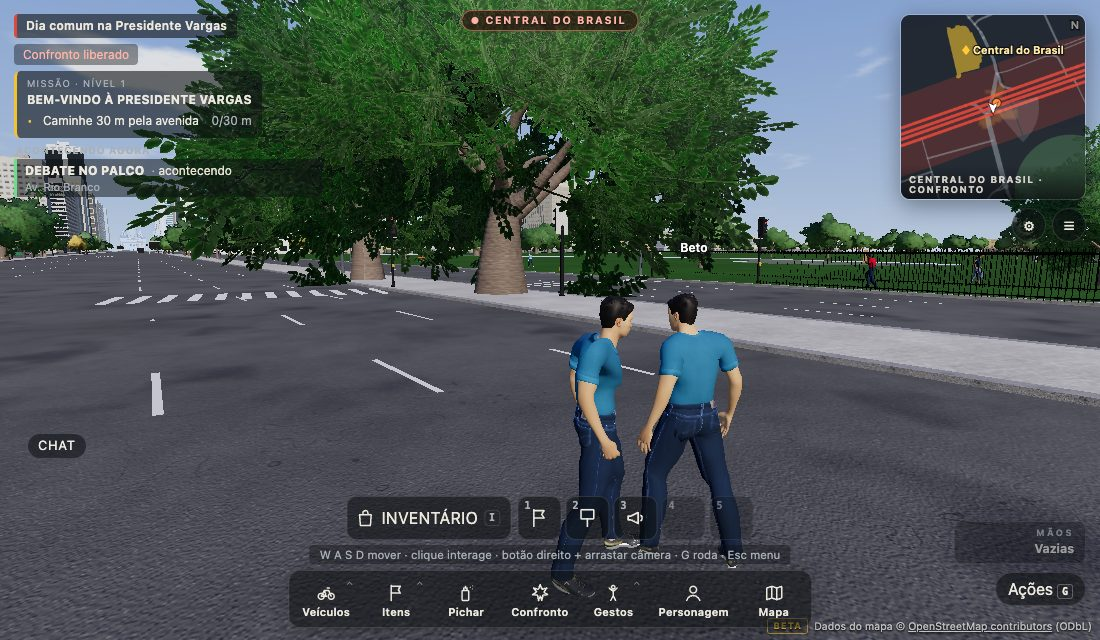
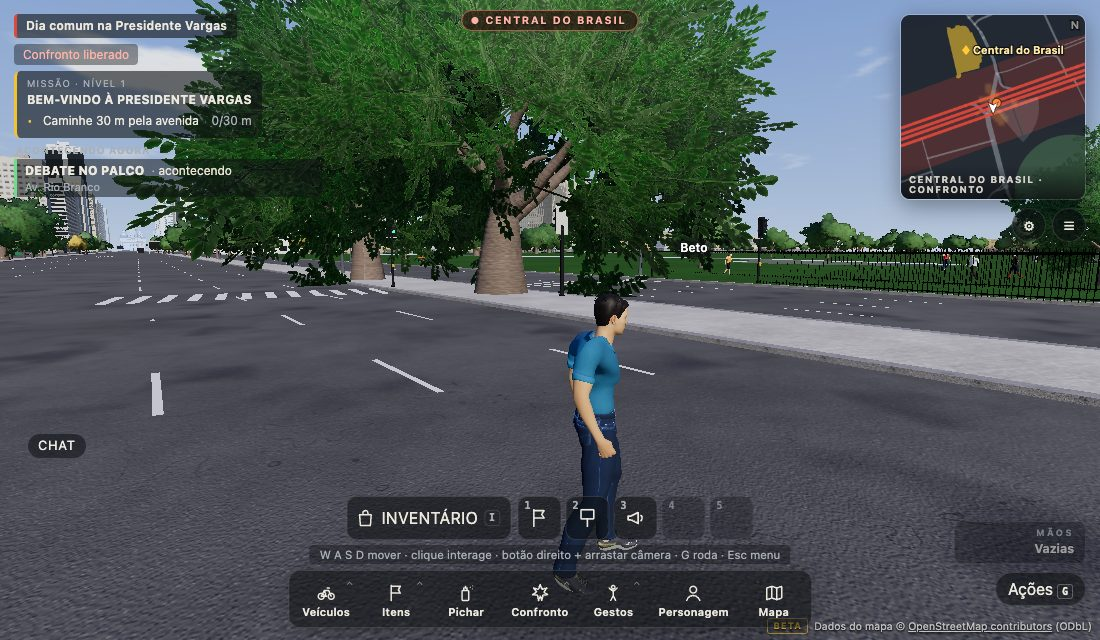
rodada 12 (A): docs/CROWD_COLLISION.md (algoritmo, raio, consulta, multidão, custo 50/250/500 no servidor e no cliente, combate, API para os autônomos) e QA de colisão final (13/13, 0 correções de corpo com clientes reais)

diff --git a/docs/CROWD_COLLISION.md b/docs/CROWD_COLLISION.md
@@ -1,0 +1,152 @@
+# Colisão entre corpos (rodada 12)
+
+Bug crítico até a rodada 11: um avatar atravessava o outro. Desde a rodada 12 **ninguém atravessa ninguém** — jogador
+humano, personagem autônomo (agente C) ou NPC de ambiente — sem rigid body por pessoa e sem custo perceptível.
+
+## Corpo
+
+| contrato (`src/physics/bodies.ts` `BODY`) | valor | papel |
+|---|---|---|
+| `radius` | 0,32 m | corpo = círculo no plano horizontal; contato = 2 × 0,32 = **0,64 m** |
+| `personalSpace` | 0,9 m | desvio local suavizado (`steerAround`) de quem anda sozinho (autônomos) |
+| `maxPushPerStep` | 0,12 m | resolução progressiva: empurrão máximo por corpo por passada (sem explosão) |
+| `serverTolerance` | 0,18 m | penetração que o servidor tolera antes de corrigir um humano (latência) |
+| `queryRadius` | 2 m | TETO da consulta de vizinhos (na prática: contato + passo + folga ≈ 0,8–1,2 m) |
+
+`BodyRef { id, x, z, r, fixed?, mass?, soft? }` — `fixed` nunca é empurrado; `mass` reparte o empurrão entre dois
+móveis; `soft` = penetração que QUEM SE MOVE pode fazer nesse corpo (NPC 0,16 m, autônomo visto do cliente 0,12 m,
+humano 0). Quem não tem corpo: caído/levantando/ragdoll, em veículo, em cima do trio (queda na multidão nunca
+"explode"; levantar procura ponto livre).
+
+## Algoritmo (`src/physics/bodyResolve.ts` — puro, o mesmo no cliente e no servidor)
+
+- **`SpatialBodyGrid`** (implementa `BodyIndex`): células de 2 m, chave numérica, `upsert/move/remove/near`; conta
+  `queries` (métrica `neighborQueries`).
+- **`constrainMove(id, r, from, to, vizinhos, dt)`** — um corpo que se move (jogador local, humano no servidor,
+  autônomo): ninguém termina mais perto de um vizinho do que `min(contato, distância de antes)`. Só a componente
+  **normal** do passo some; a **tangencial** fica → desliza em volta em vez de travar seco. 3 passadas (duas pessoas ao
+  mesmo tempo); fresta impossível (dois contatos puxando para lados opostos) → não anda. Sobreposição antiga (latência,
+  spawn) sai a 0,6 m/s **só para quem está andando** — parado, ninguém o empurra.
+- **`resolveBodies(corpos, índice)`** — muitos corpos móveis (autônomos entre si e contra humanos `fixed`): cada par
+  sobreposto se afasta pela normal, a parte de cada um pela massa inversa, limitada a `maxPushPerStep`, 2 passadas
+  Gauss-Seidel; os que andaram trocam de célula no fim. Centros coincidentes: direção determinística pelo par de ids.
+- **`steerAround(id, x, z, dir, vizinhos, espaço)`** — desvio local: repulsão + componente lateral (contorna pelo lado
+  em que já está), desacelera antes de encostar, nunca para de vez (velocidade ≥ 30 %).
+- **`penetrationOf`**, **`findFreeSpot`** (anéis de 0,5 m, 8→24 direções, começando oposto ao vizinho mais encostado;
+  `clear` para parede), **`canEscape`** (8 direções × 0,25 m), **`StuckDetector`** (quer andar, não anda, ≥ 2 corpos
+  ou corpo + parede, por 3 s).
+
+## Cliente — predição (`src/physics/LocalBodies.ts`, bloco `// rodada 12 — colisão` no `Game.ts`)
+
+Por quadro, depois de `stepPlayer` e da colisão com veículos:
+1. vizinhos: **remotos** a pé (`NetworkClient.bodiesNear`, posição interpolada; humano/bot duro, autônomo `soft`
+   0,12) + **NPCs locais** (pedestres e multidão de concentração com esqueleto: `yieldBodies` empurra cada um para fora
+   a até 1,1 m/s e o devolve como corpo macio 0,16 → **multidão densa resiste**: cada NPC sai devagar e volta ao lugar);
+2. `constrainMove` → parede tem a palavra final (`resolveCircle`);
+3. esquiva/avanço curto (lunge da rodada 9.1) passam pelo mesmo passo (`CombatClientDeps.bodies`) e param no contato;
+4. **preso de verdade**: `StuckDetector` (3 s) **e** `canEscape` falso (nenhuma das 8 direções anda) → manda
+   `unstuck`. Empurrar uma multidão que só fecha a frente nunca teleporta ninguém (QA: 0 pedidos).
+
+QA: `__pv.bodies(reset?)` → `{avgMs, maxMs, avgNeighbors, avgContacts, blockedFrames, stuckRequests, minDist}`.
+
+## Servidor — autoridade (`server/src/collision/RoomBodies.ts`, blocos `// rodada 12 — colisão` na sala)
+
+- **Grade por tick** (`rebuild`, O(N)): todo `NetPlayer` a pé e de pé (OK/cambaleando) — humanos, **autônomos (kind 1)**
+  e bots de carga. Humanos e bots são `fixed` para a resolução dos autônomos (quem cede é o autônomo). `sync` mantém o
+  corpo em dia a cada movimento aceito.
+- **Validação do humano** (`onMove`, a pé, depois das paredes e da carroceria do trio): penetração > `serverTolerance`
+  **aumentando por causa do próprio passo** → `correct` motivo `corpo` com a posição deslizada encostada a
+  `contato − tolerância` (correção mínima: só o excesso — sem briga de predição). Quem está parado nunca é corrigido
+  nem empurrado; ninguém vira fantasma por multidão (não há "desligar colisão" em aperto). Cliente honesto: **0
+  correções** no QA.
+- **Ponto livre**: entrar (exceto sessão assumida), **reconectar** (`r12Relocate` antes do `resume`), **levantar da
+  queda** (`correct` motivo `levantar`) — `findFreeSpot` sem cruzar parede. Saída de veículo: a saída segura da
+  rodada 10 (`findSafeExit`) já recusa ponto a < 0,65 m de outra pessoa (`EXIT_PERSON_GAP` ≥ contato).
+- **`unstuck`** (mensagem do cliente): conferido aqui — ≥ 2 corpos encostados (ou 1 + parede a ≤ 0,55 m) **e**
+  `canEscape` falso; ≤ 1 a cada 4 s; ponto livre além do anel encostado (`correct` motivo `livre`); senão
+  `unstuck_denied`.
+- **Veículos × pessoas**: regras atuais preservadas (impacto de carro/moto, `vehicleBlock` para o carro antes de
+  encostar); veículo parado é obstáculo (`pushOutOfBox` no cliente, carroceria do trio/carro de som no servidor).
+
+### API para o agente C (autônomos)
+
+```ts
+room.bodies.grid                  // SpatialBodyGrid (BodyIndex) com TODOS os corpos a pé da sala (reconstruída no tick)
+room.bodies.resolveAutonomous(cs) // resolveBodies(cs, grid) — cs = corpos dos autônomos que andaram (objetos da grade:
+                                  // grid.get(id), já movidos com grid.move); humanos fixos; conta no collisionMs
+room.bodies.sync(id, netPlayer)   // depois de escrever x/z do NetPlayer do autônomo
+room.bodies.freeSpot(id, x, z, clear?) // nascer/reaparecer sem cair dentro de alguém
+// puro (src/physics/bodyResolve.ts): constrainMove / steerAround / canEscape para o passo de cada autônomo
+```
+Fluxo sugerido por tick do autônomo: `steerAround` (direção) → passo → `constrainMove` contra `grid.near(...)` →
+`grid.move` → (todos) `resolveAutonomous` → escrever no NetPlayer → `sync`. O cliente vê autônomos como corpos
+macios (0,12 m < tolerância), então um humano que encosta num autônomo parado o empurra devagar (o servidor resolve).
+
+## Multidão
+
+- 30 corpos em 3 fileiras fechando a passagem: o humano **não passa** (QA, `tests/collisionServer.test.ts` com 10 numa
+  fila de 0,72 m) e **sem deadlock**: sai de lado/para trás na hora; nenhum teleporte falso.
+- 100 concentrados no mesmo ponto (pura): mediana da distância ao vizinho mais próximo > 0,95 × contato, 5º percentil
+  > 0,85 × contato, ninguém anda mais de 2 × 0,12 m por passo, grupo continua compacto (< 6 m).
+- NPCs locais cedem com resistência (1,1 m/s) e voltam a pé ao lugar no anel.
+- Desvio local (QA): 16 bots com `steerAround` + `constrainMove` atravessam por cima de um humano parado — 16/16
+  passam, distância mínima 0,62 m, 0 correções, o humano não sai do lugar.
+
+## Custo medido
+
+**Servidor, puro** (`server/tools/collisionbench.ts`, disco de √N × 0,42 m ≈ 1,8 pessoa/m², 200 ticks;
+`docs/screenshots/round12/collision_bench.json`). "humanos" = pior caso: todo mundo andando para o centro SEM a
+colisão do cliente (cada passo é corrigido); "autônomos" = resolução progressiva de 90 % autônomos + 10 % humanos.
+
+| corpos | humanos: ms/tick (méd · p95 · máx) | consultas/tick | autônomos: ms/tick (méd · p95 · máx) | pares/tick |
+|---|---|---|---|---|
+| 50 | 0,15 · 0,33 · 0,48 | 75 | 0,07 · 0,17 · 0,23 | 392 |
+| 250 | 0,72 · 1,18 · 1,43 | 375 | 0,33 · 0,60 · 1,28 | 2 221 |
+| 500 | 1,54 · 2,51 · 2,97 | 750 | 0,60 · 1,02 · 1,29 | 4 874 |
+
+**Servidor, ponta a ponta** (`server/tools/loadtest.ts 15 50k,250k,500k` — `k` = CONCENTRADOS, bots reais de rede
+apertando para o centro sem colisão local; `docs/screenshots/loadtest_round12_collision.json`; gerador de carga na
+mesma máquina):
+
+| bots | tick ms (méd/máx) | **collisionMs** (méd/máx) | neighborQueries/tick | validações/s | correções de corpo |
+|---|---|---|---|---|---|
+| 50 | 0,71 / 2,04 | **0,13 / 0,33** | 75 | 740 | 2 206 |
+| 250 | 3,38 / 6,62 | **0,61 / 1,20** | 377 | 3 692 | 10 796 |
+| 500 | 10,86 / 17,59 | **1,39 / 2,19** | 762 | 7 461 | 21 652 |
+
+A 500 concentrados a colisão custa ~1,4 ms de um tick de 100 ms (13 % do tick, < 1,5 % do orçamento) **no pior caso**
+(cada bot é um cliente que ignora a colisão e é corrigido o tempo todo). Por isso **não há LOD nem orçamento**: precisão
+máxima para todos. A consulta é do tamanho do passo (contato + passo + folga), não `queryRadius` — mediu ~3× menos
+tempo na validação densa. Se um dia precisar, o lugar do orçamento é `RoomBodies.validate` (pular a validação de
+bots de carga / autônomos longe de humanos), nunca remover colisão.
+
+**Cliente** (por quadro): `collisionbench` 0,006–0,008 ms em média (≈ 8–10 vizinhos, 2 contatos) no meio de
+50/250/500 remotos concentrados; QA real no Chrome 0,012–0,016 ms/quadro em média, pico 0,2–1,2 ms.
+
+`/metrics` (servidor): `collisionMs` (ms por período de tick: grade + validações), `collisionMaxMs`,
+`collisionBodies`, `neighborQueries` (por tick), `neighborQueriesPerSec`, `bodyValidationsPerSec`, `bodyCorrections`,
+`unstucks`, `freeSpots`.
+
+## Combate
+
+Dois corpos encostados ficam a **0,64 m** — dentro do soco (1,2 m) e do chute (1,5 m). A colisão não impede acerto
+legítimo (o servidor mede a distância de centro a centro, como antes), nem a esquiva, nem o avanço curto: o lunge para
+no contato, ainda no alcance. Testes: `tests/combat.test.ts` ("corpos ENCOSTADOS … soco e chute"),
+`tests/collisionServer.test.ts` (soco a 0,65 m na sala real), QA (soco encostado: condição de B 100 → 88).
+
+## Testes e QA
+
+- `tests/bodyCollision.test.ts` (puro): contrato × alcance; A contra B parado não atravessa (B não é empurrado);
+  diagonal desliza; 10 corpos fecham um corredor e o lado continua livre; corpo macio; sobreposição antiga sai devagar;
+  100 concentrados (estatística de distância mínima, sem explosão); autônomos × humano fixo; ponto livre (e parede);
+  anti-trap (`StuckDetector`, `canEscape`); desvio local; grade.
+- `tests/collisionServer.test.ts` (sala real, clientes forjados): A forjado contra B → correção `corpo`, B intacto;
+  diagonal passa; fila de 10 bloqueia; spawn em ponto ocupado → ponto livre; `unstuck` negado com saída e aceito
+  cercado por 4; soco encostado acerta; `/metrics` com `collisionMs`/`neighborQueries`.
+- QA `tools/qa/collision_mp.mjs` (2–3 Chromes + bots `tools/qa/collision_bots.ts`), 13/13:
+  `docs/screenshots/round12/I_humano_bloqueado.jpg` (parado no contato), `J_multidao_bloqueando.jpg` (30 corpos),
+  `K_avoidance.jpg` (contorno pela tangente ao lado de outra pessoa); medidas em `collision_mp.json` (servidor no
+  roteiro inteiro: `collisionMs` 0,04 ms médio / 0,5 ms máx, **0 correções de corpo** com clientes reais).
+- Observação de QA (fora do escopo da colisão): no Chrome headless desta máquina, remotos com esqueleto às vezes deixam
+  de ser desenhados (o rótulo continua) depois da troca de detalhe adiada de ~6 s / teleporte de QA; as capturas foram
+  feitas antes disso, e o fluxo de bots com desvio é medido por números.
